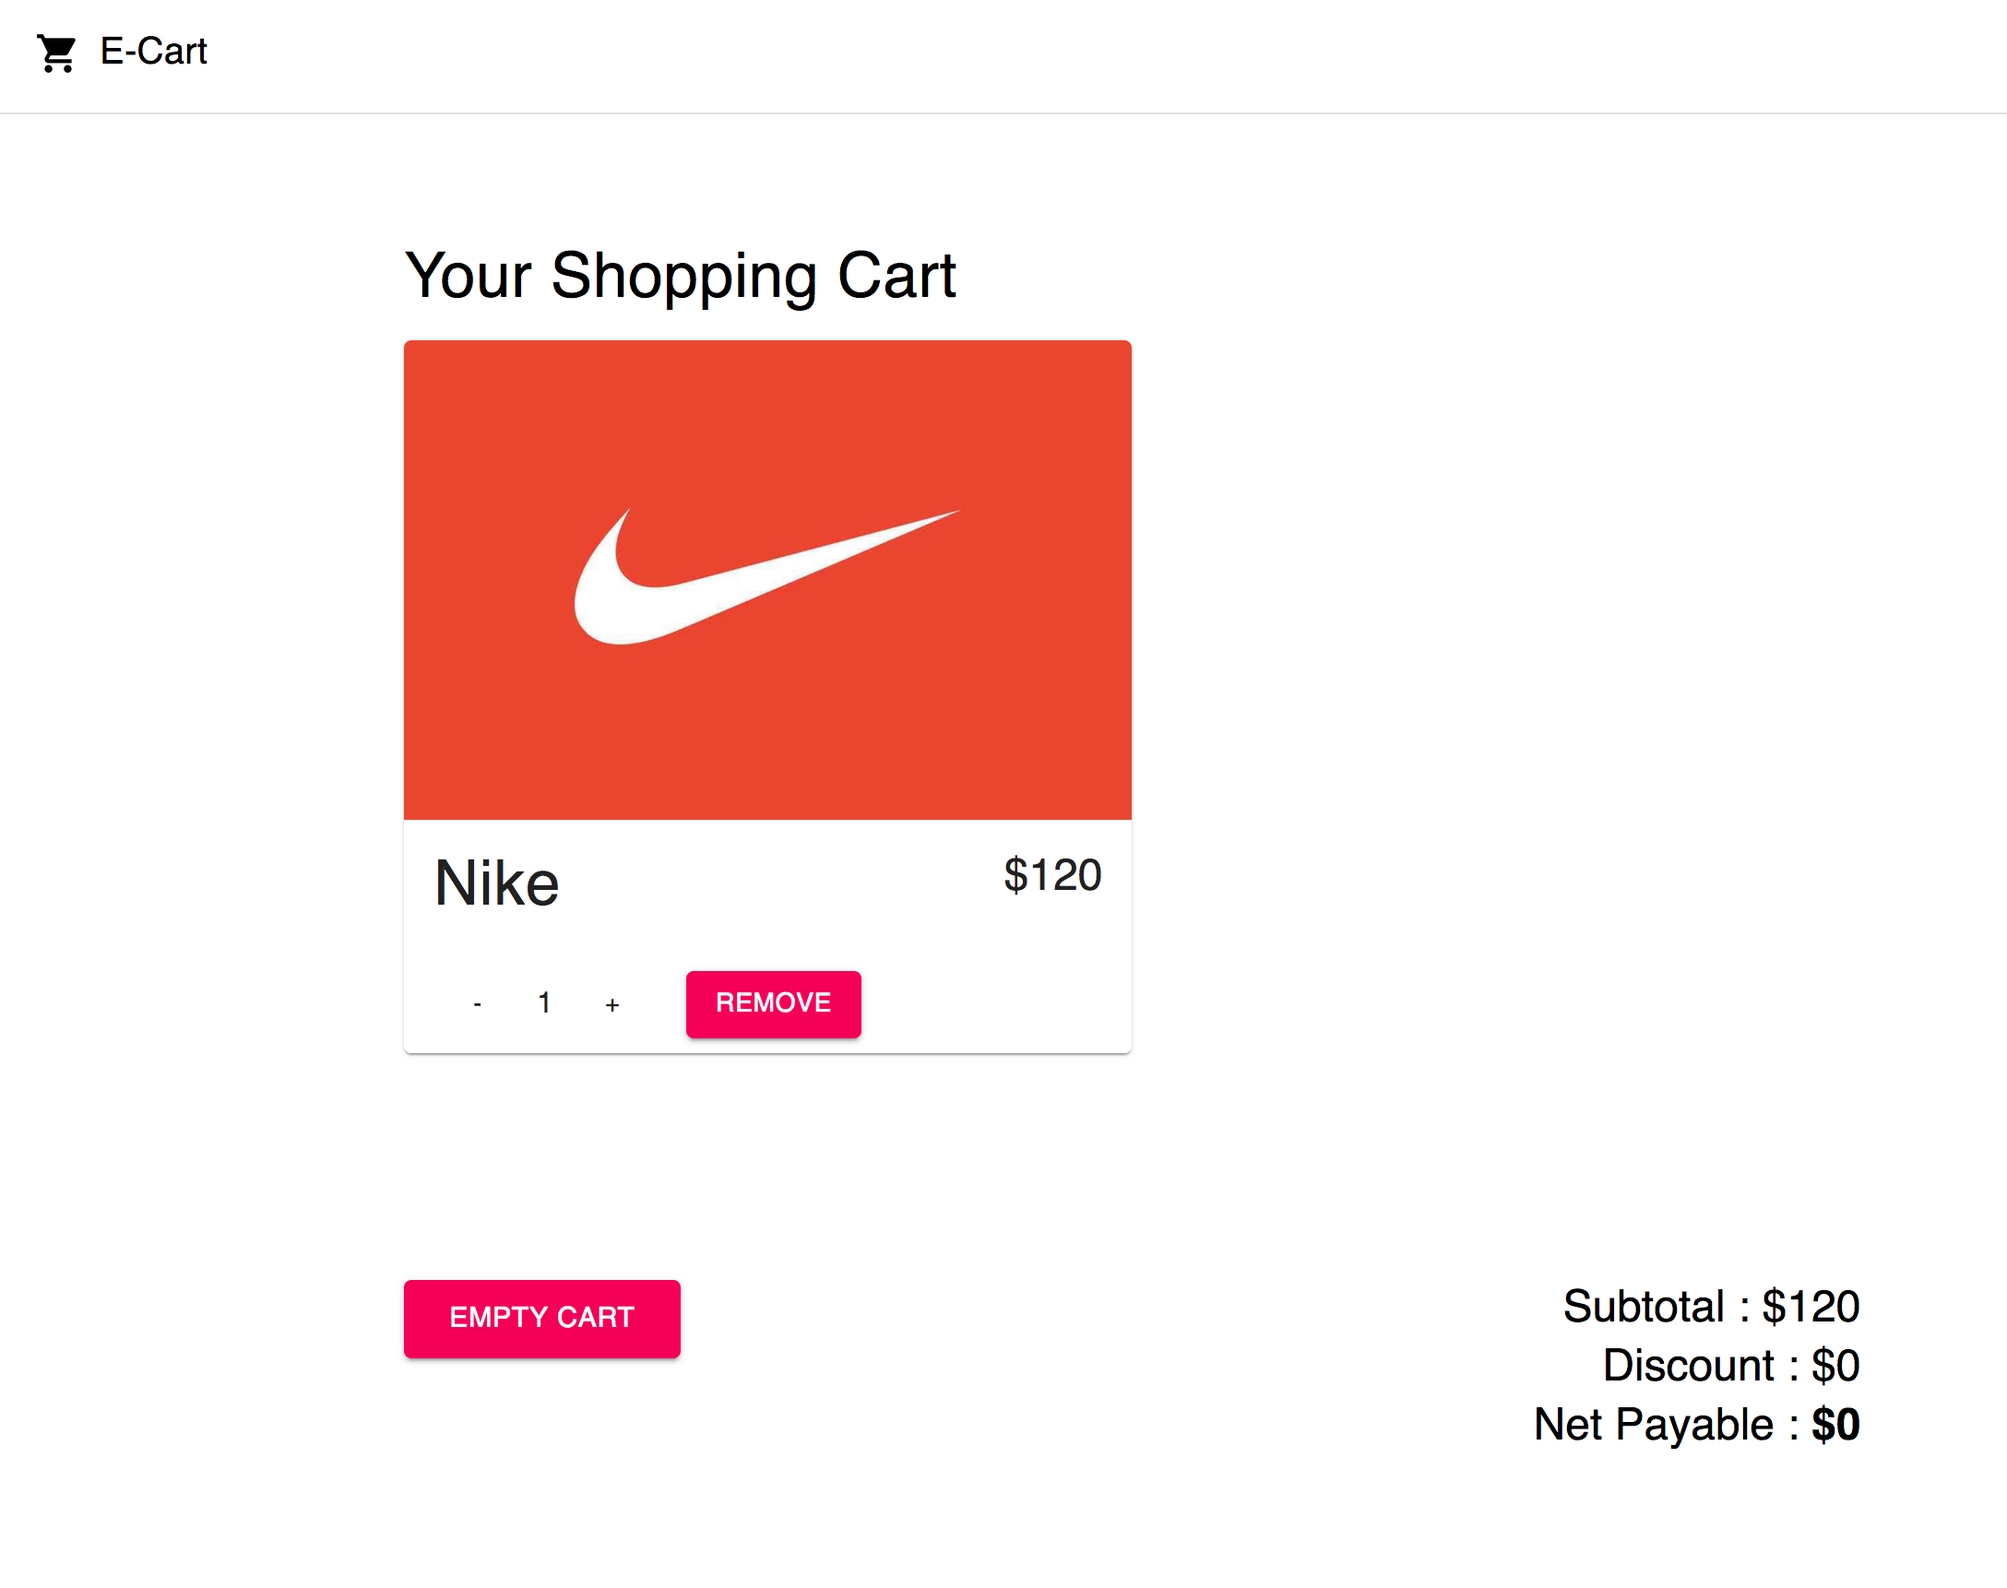
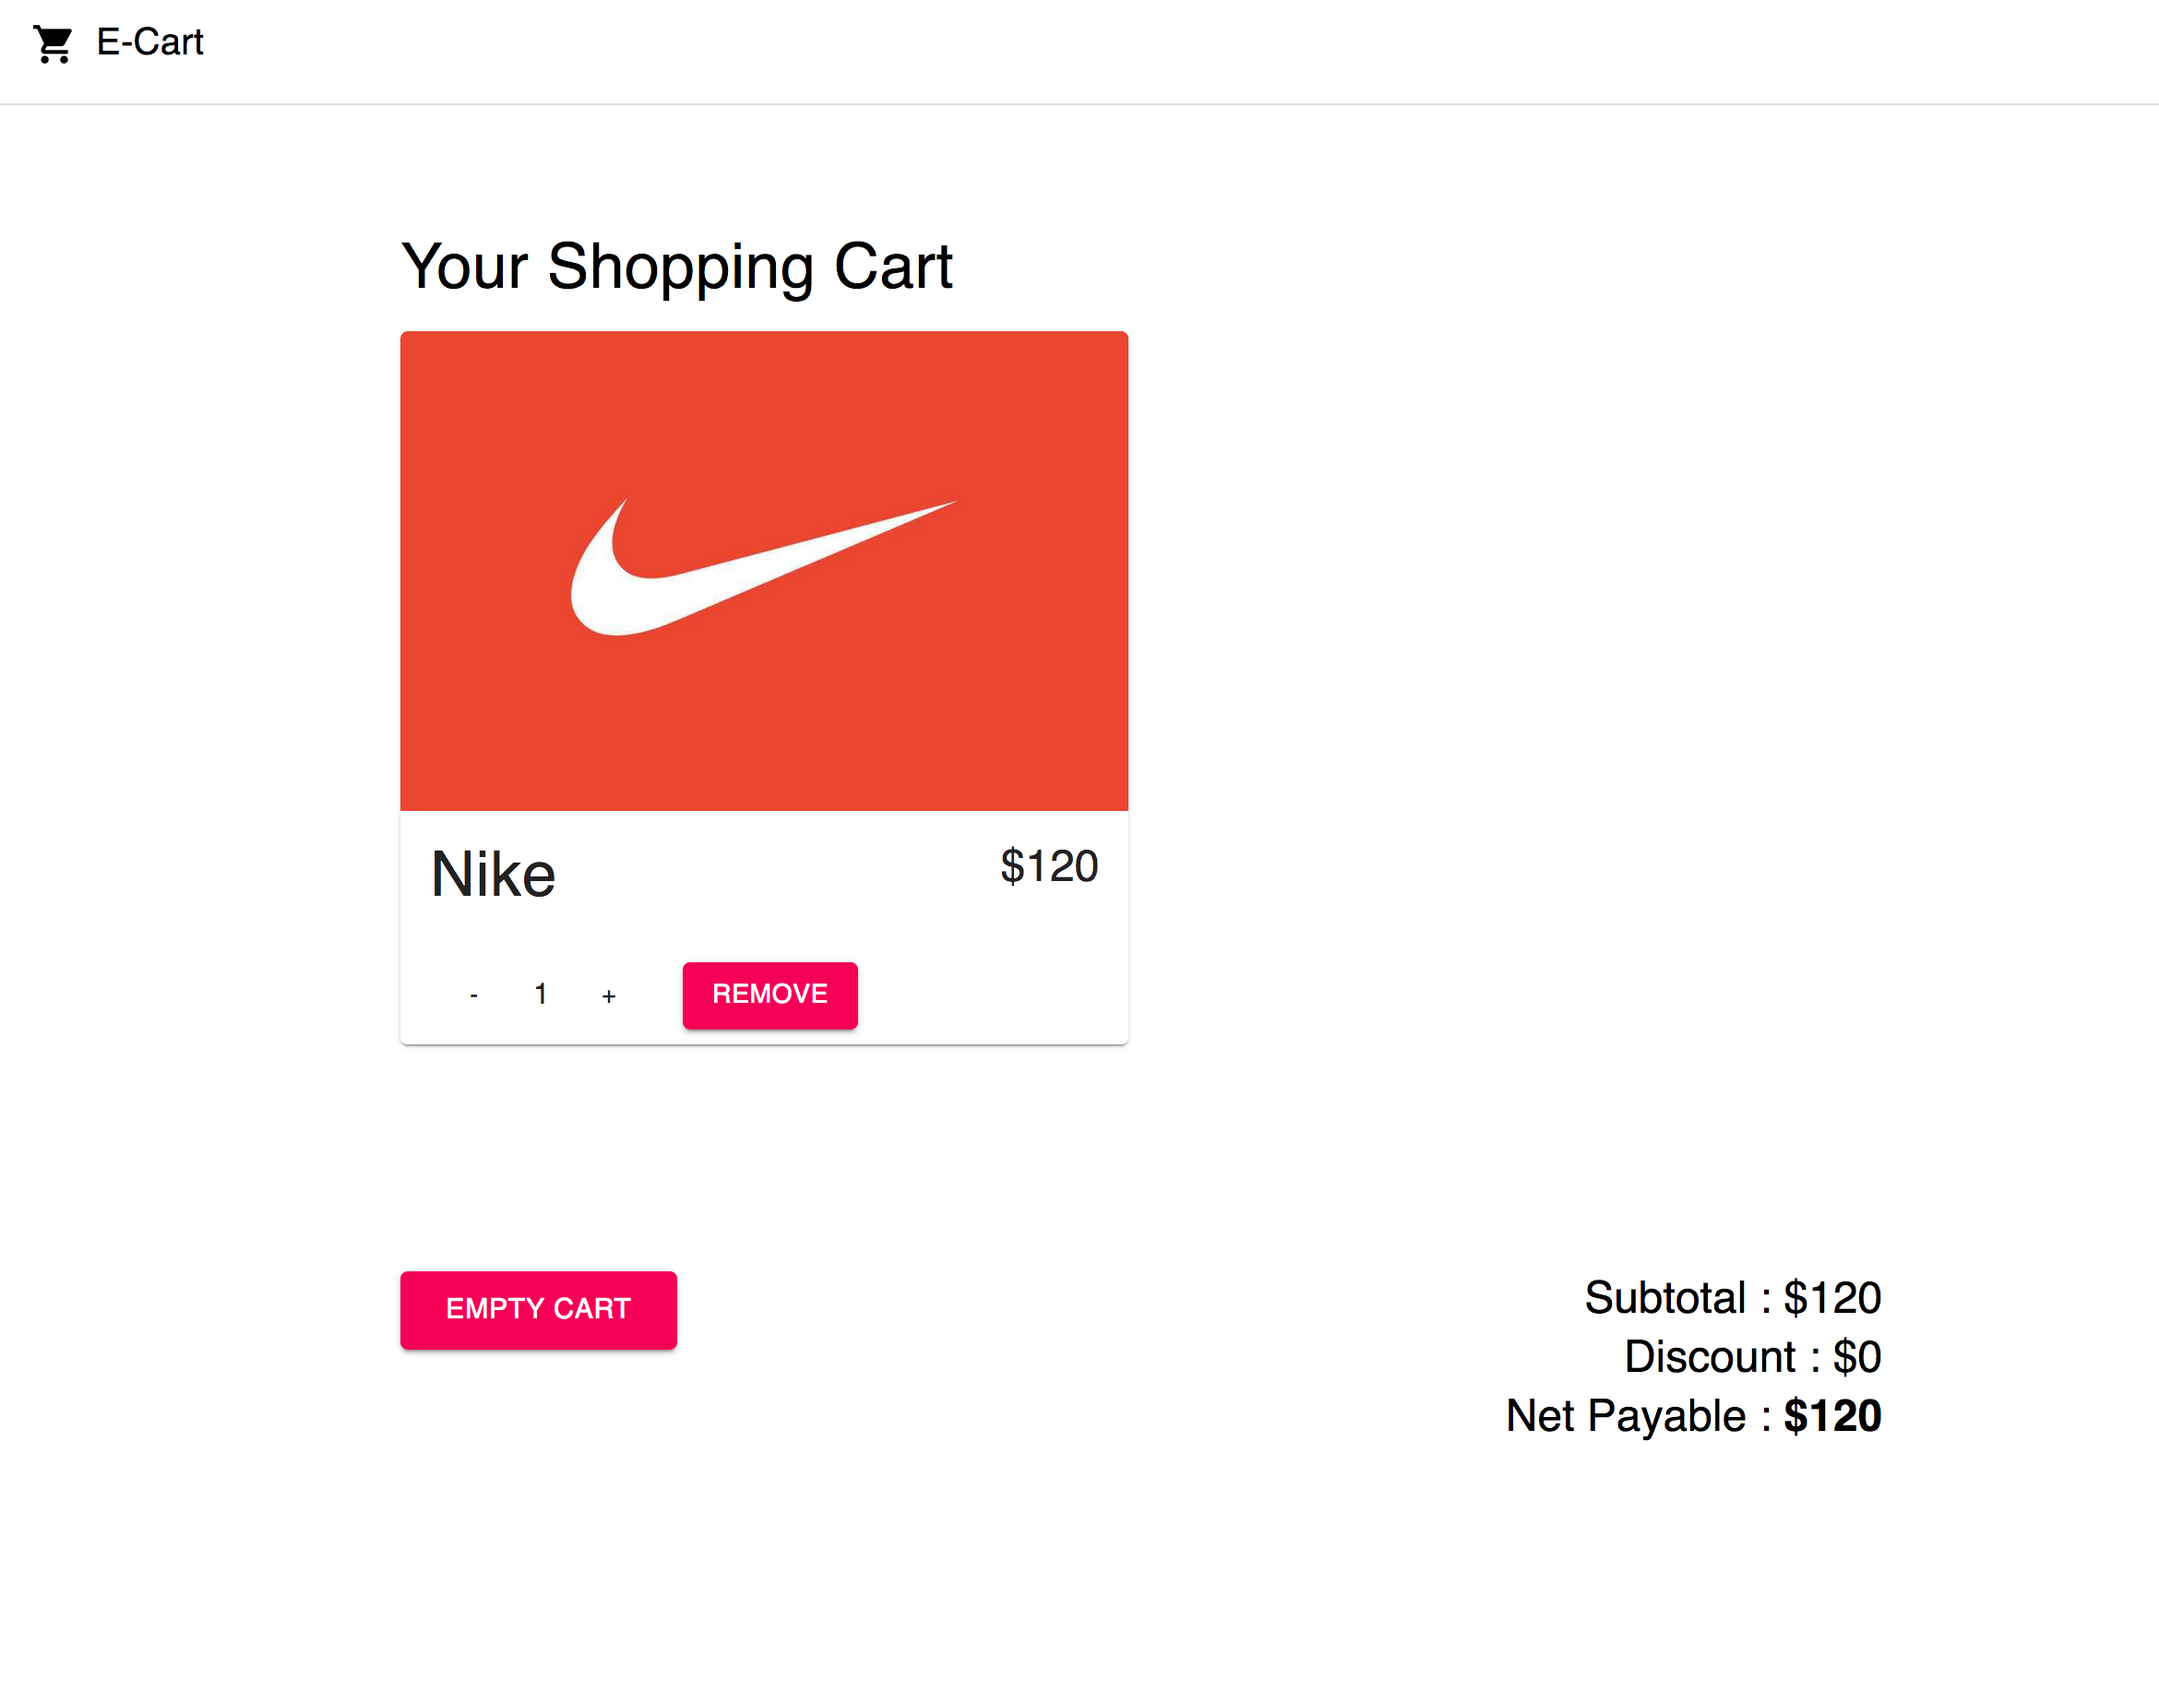
NetPayable Bug

diff --git a/src/components/Cart/Cart.jsx b/src/components/Cart/Cart.jsx
@@ -14,10 +14,11 @@ const Cart = ({cart,  handleIncrementPackageCount, handleReducePackageCount, han
     logger.debug(cart)
     let netPayable = 0;
     let discount = 0;
-    if(cart.quantity!=null && cart.quantity>1) {
-        discount = cart.total * 0.1;
-        netPayable =  cart.total - discount;
-         
+    if(cart.quantity!=null) {
+        if(cart.quantity>1) {
+            discount = cart.total * 0.1;
+        }
+        netPayable =  cart.total - discount;   
     }
 
     if(cart.cartMap !=null) {
